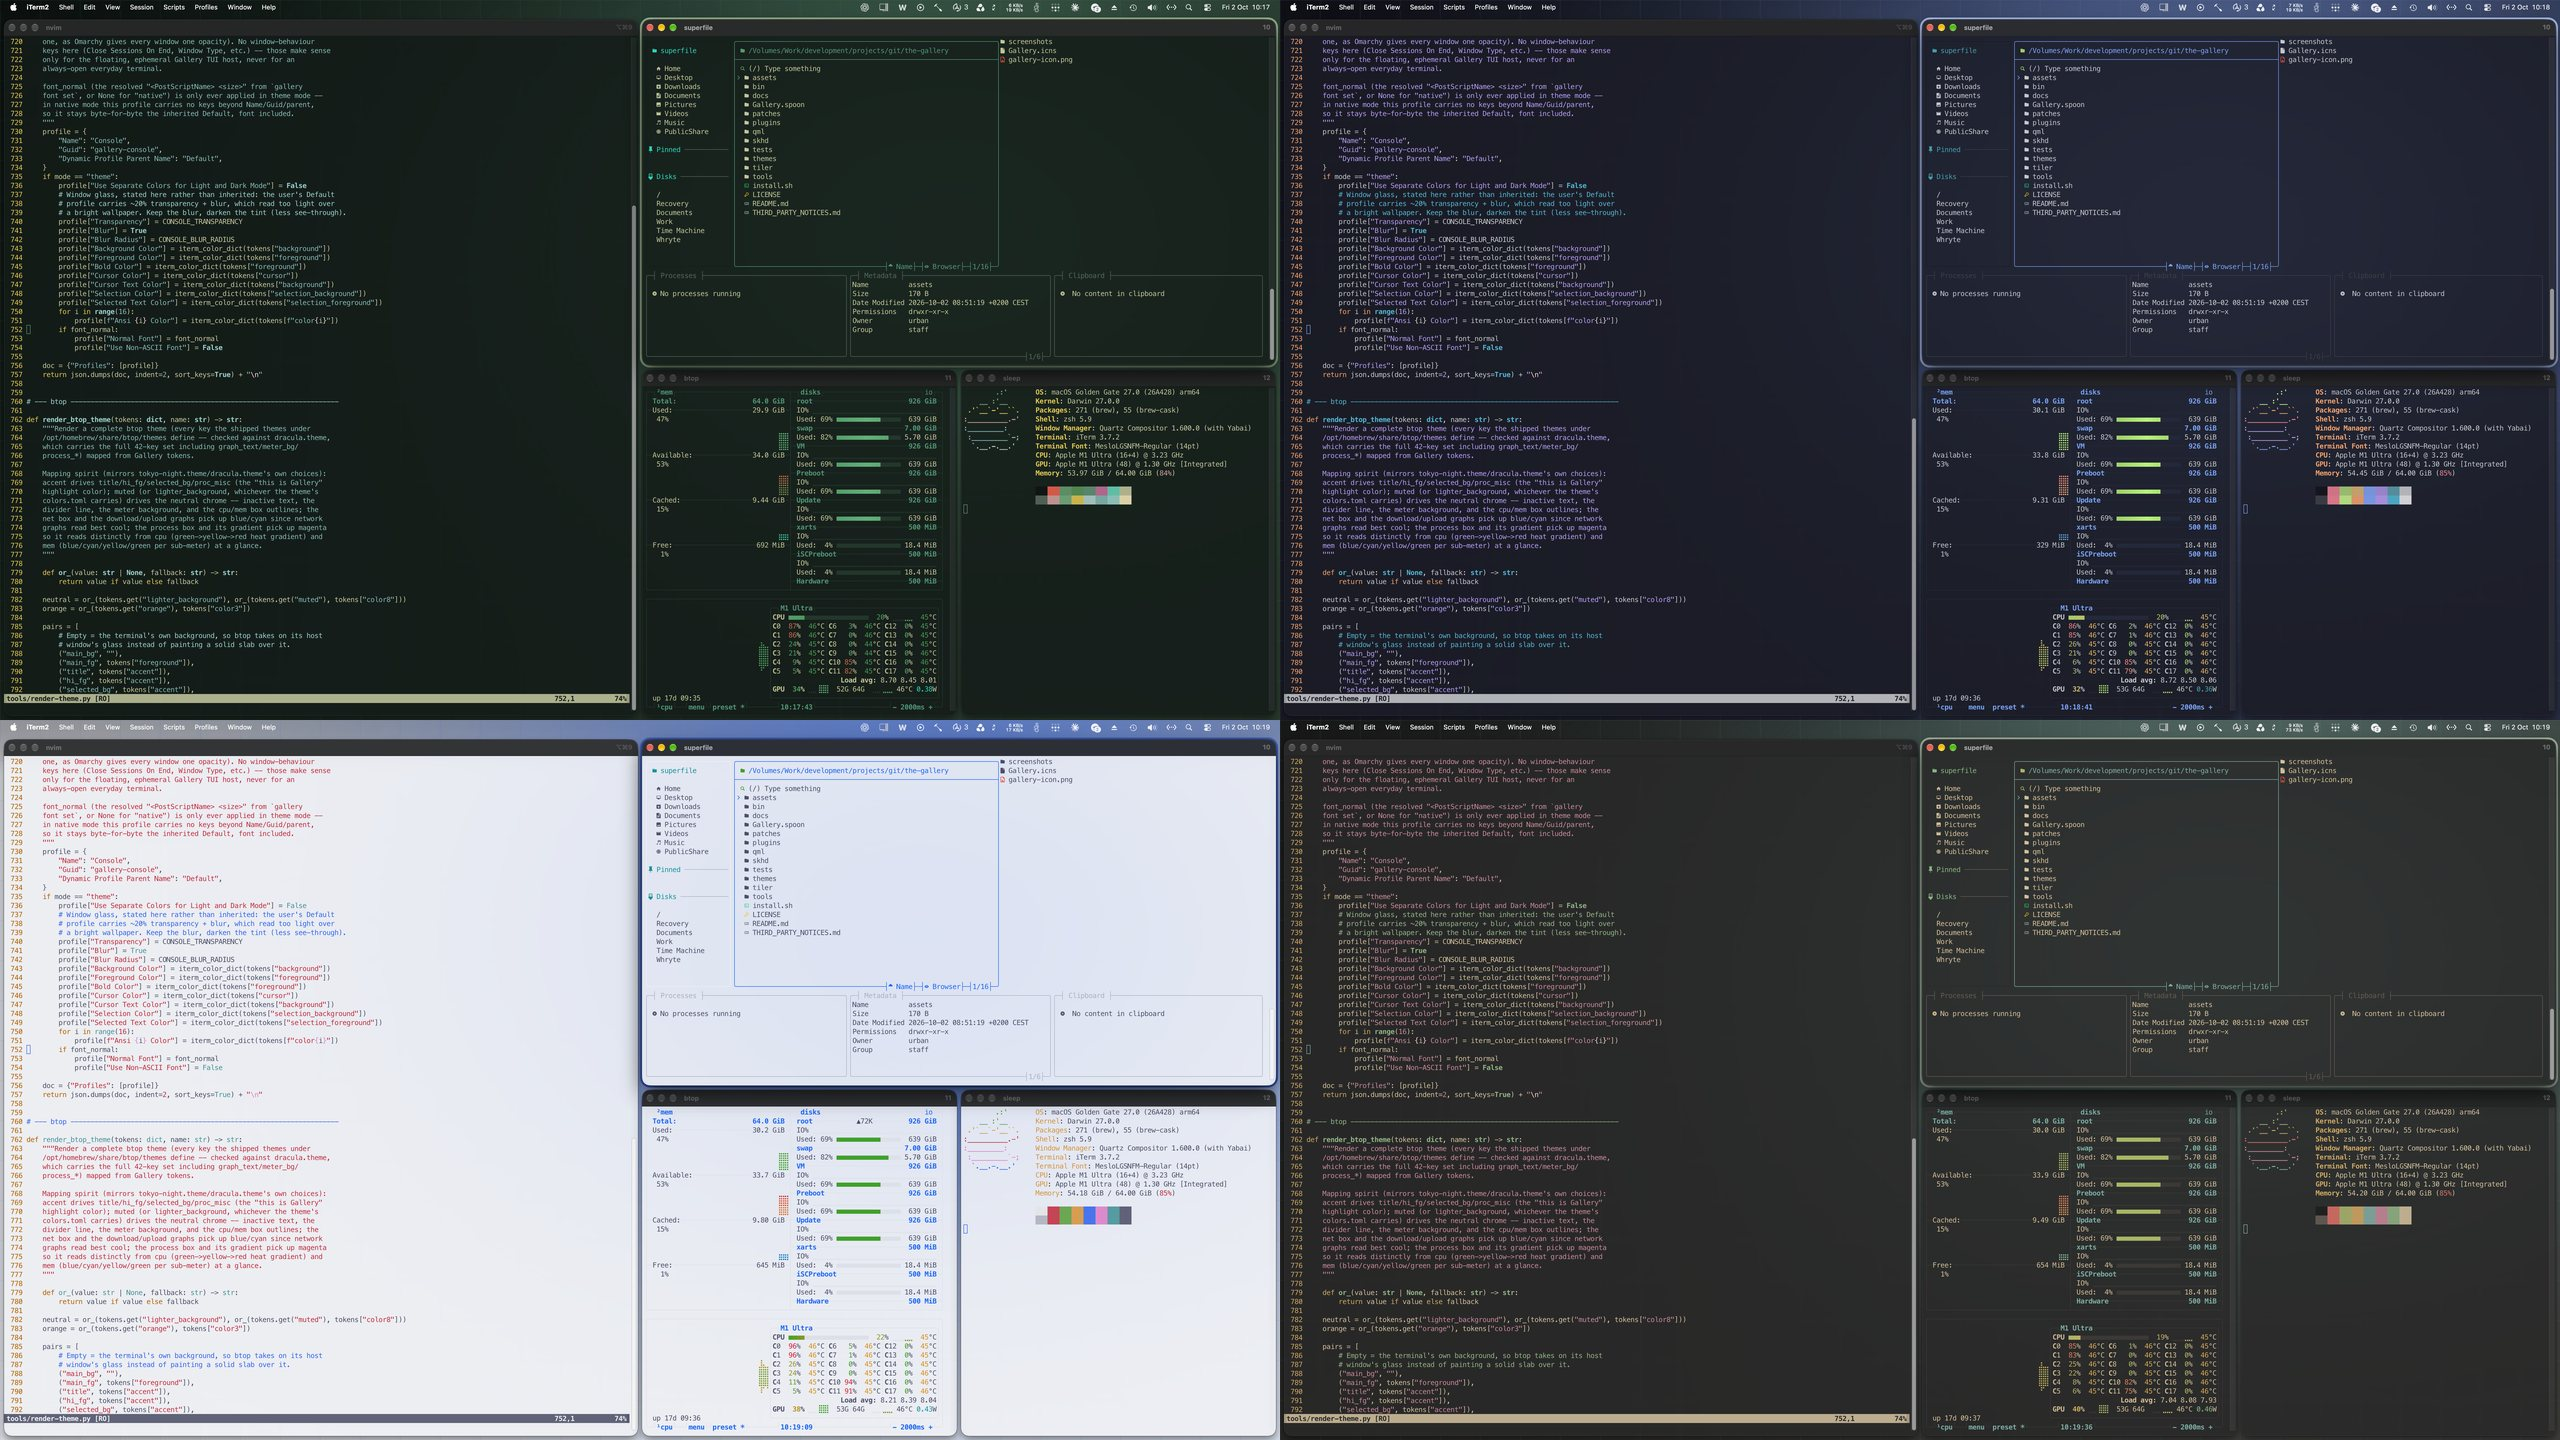
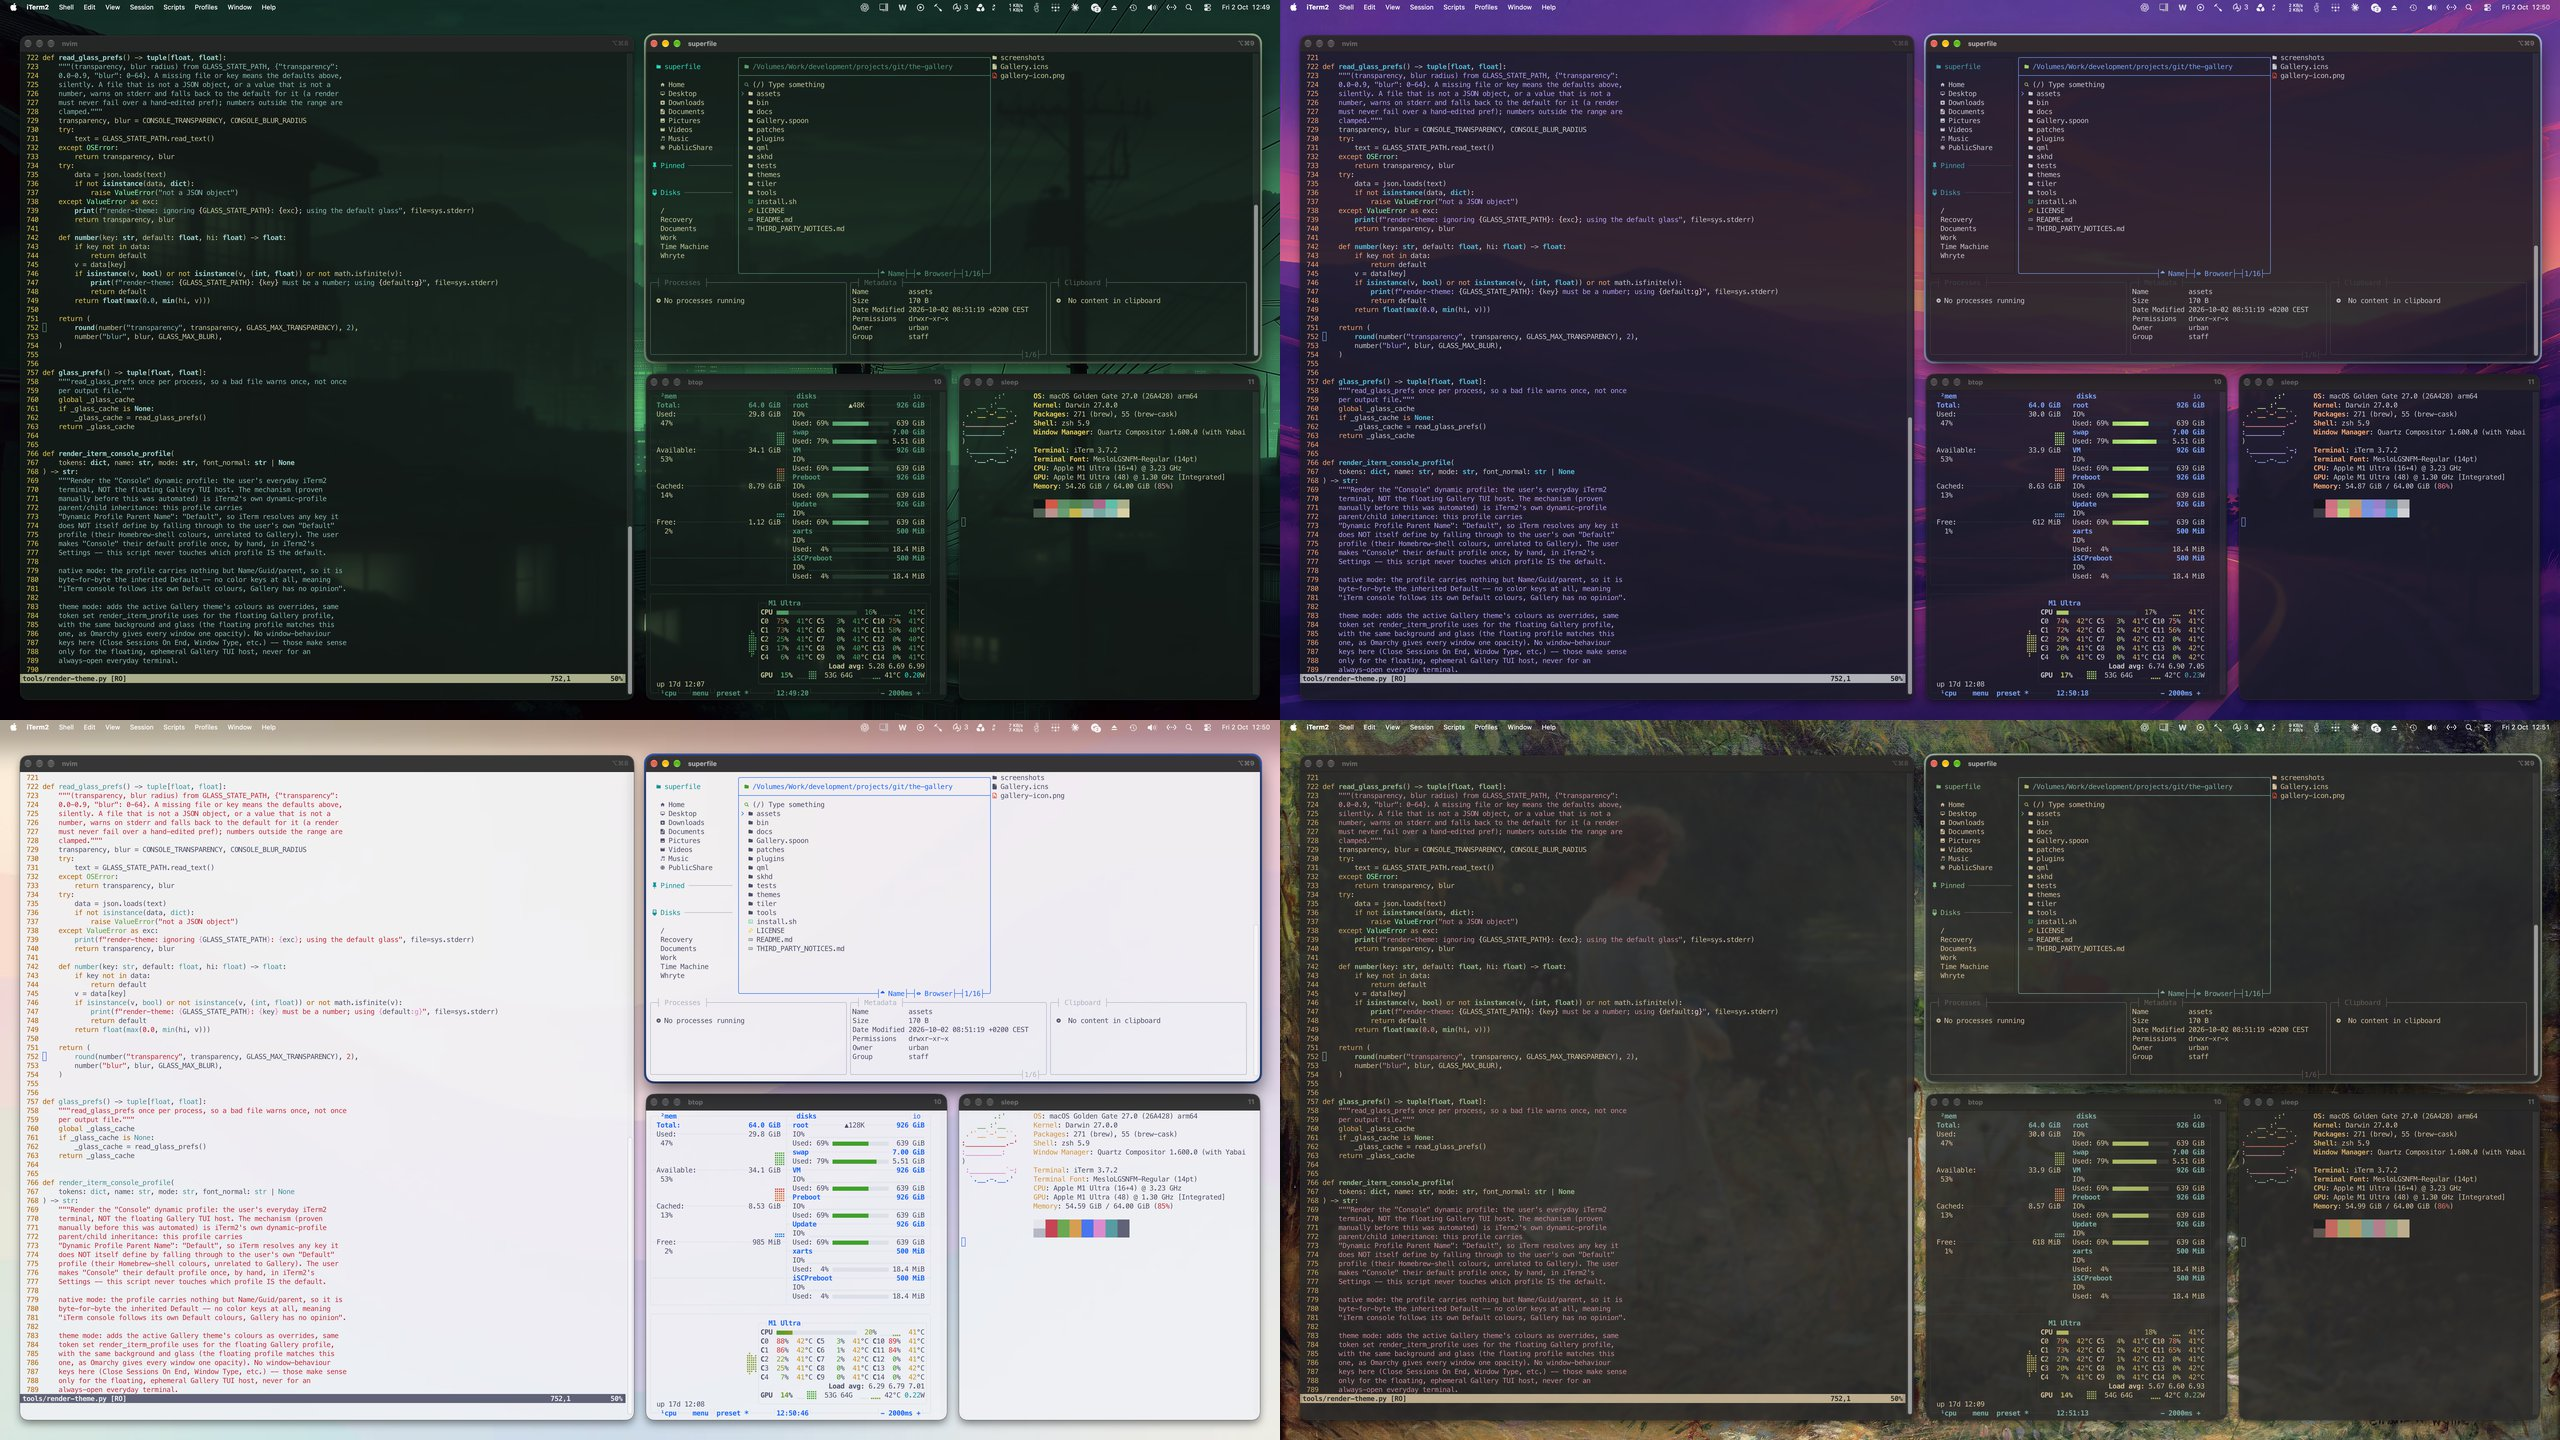
Screenshots on Omarchy's own wallpapers; a wallpaper section
Retaken on each theme's stock Omarchy background, with a tokyo-night
quattro shot and a four-theme wallpaper collage. THIRD_PARTY_NOTICES notes
that the wallpapers shown are their artists' work and are not in the repo.

Changed region(s): [[0.0, 0.0, 1.0, 1.0]]

diff --git a/README.md b/README.md
@@ -25,6 +25,17 @@ gruvbox:
 
 ![The same tiled desktop in four themes](assets/screenshots/themes.jpg)
 
+**Omarchy's wallpapers come along.** Every theme brings its own
+backgrounds from Omarchy (`tools/fetch-omarchy-backgrounds.sh` fetches
+them; they are not in this repository). The tokyo-night theme on its
+quattro wallpaper:
+
+![tokyo-night: two tiles beside Omarchy's quattro wallpaper](assets/screenshots/wallpapers.jpg)
+
+And kanagawa, retro-82, catppuccin and lupine, each on its own background:
+
+![Four themes on their own Omarchy wallpapers](assets/screenshots/wallpapers-more.jpg)
+
 **Floating TUIs, Omarchy style.** Pickers and glance-and-dismiss tools open
 as floating, centred terminals over the tiles, under the same glass. The
 theme picker previews each theme's palette and wallpapers; the Learn menu

diff --git a/THIRD_PARTY_NOTICES.md b/THIRD_PARTY_NOTICES.md
@@ -42,6 +42,16 @@ OF CONTRACT, TORT OR OTHERWISE, ARISING FROM, OUT OF OR IN CONNECTION
 WITH THE SOFTWARE OR THE USE OR OTHER DEALINGS IN THE SOFTWARE.
 ```
 
+### Omarchy's wallpapers
+
+The screenshots in `assets/screenshots/` show desktops on wallpapers that
+ship with Omarchy's themes (for example tokyo-night's `1-quattro.webp`,
+kanagawa's `1-kanagawa.jpg`, osaka-jade's `1-glowing-city.webp`). They are
+the work of their respective artists, and Omarchy states no licence for them
+beyond its MIT notice. The image files themselves are not in this
+repository: `tools/fetch-omarchy-backgrounds.sh` downloads them from
+Omarchy on your machine.
+
 ## Radio Atlas
 
 - Source: https://github.com/AksharP5/omarchy-radio-atlas
